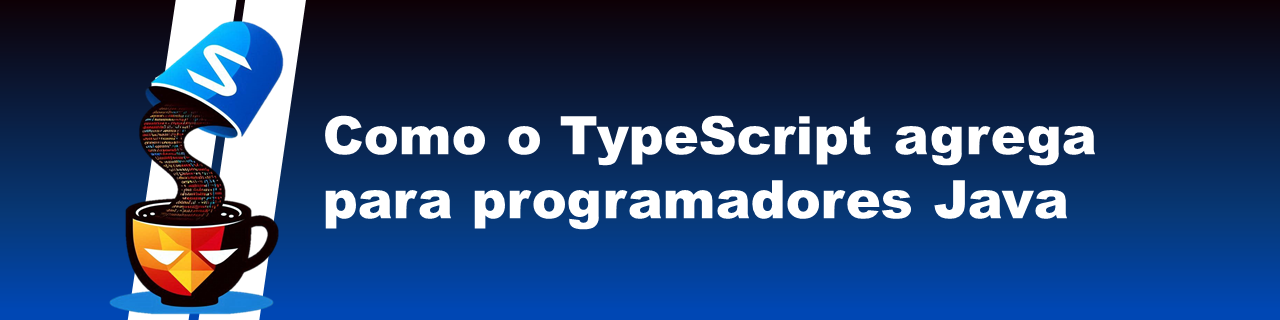
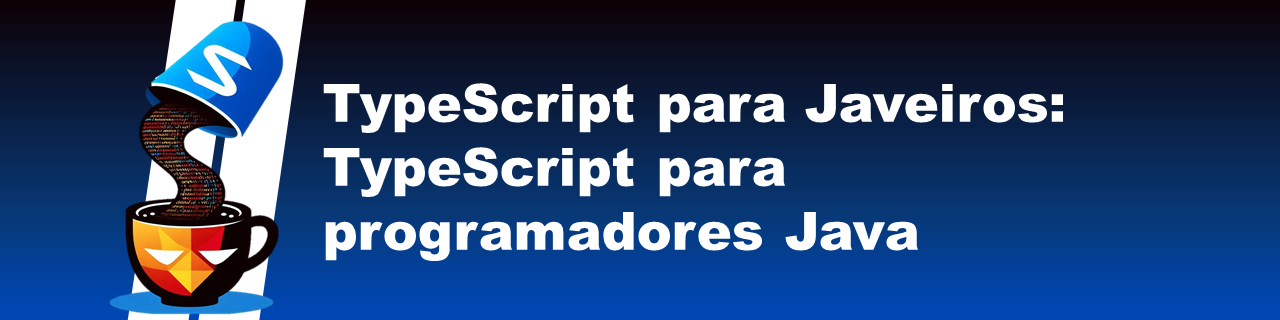
Atualizando capa

Changed region(s): [[0.25, 0.25, 0.875, 0.8125]]

diff --git a/README.md b/README.md
@@ -1,4 +1,4 @@
-<img src="./img/Capa-artigo.png" alt="![Capa do artigo: Como o TypeScript agrega para programadores Java
+<img src="./img/Capa-artigo.png" alt="![Capa do artigo: TypeScript para Javeiros: TypeScript para programadores Java
 ](image.png)">
 
 Este artigo explora como programadores familiarizados com Java podem se beneficiar ao aprender TypeScript. Discutimos a importância de entender JavaScript para dominar TypeScript e como a Programação Orientada a Objetos (POO) é implementada no TypeScript com exemplos práticos. Se você está começando sua jornada no mundo da programação ou quer expandir seus conhecimentos, este guia é para você!
